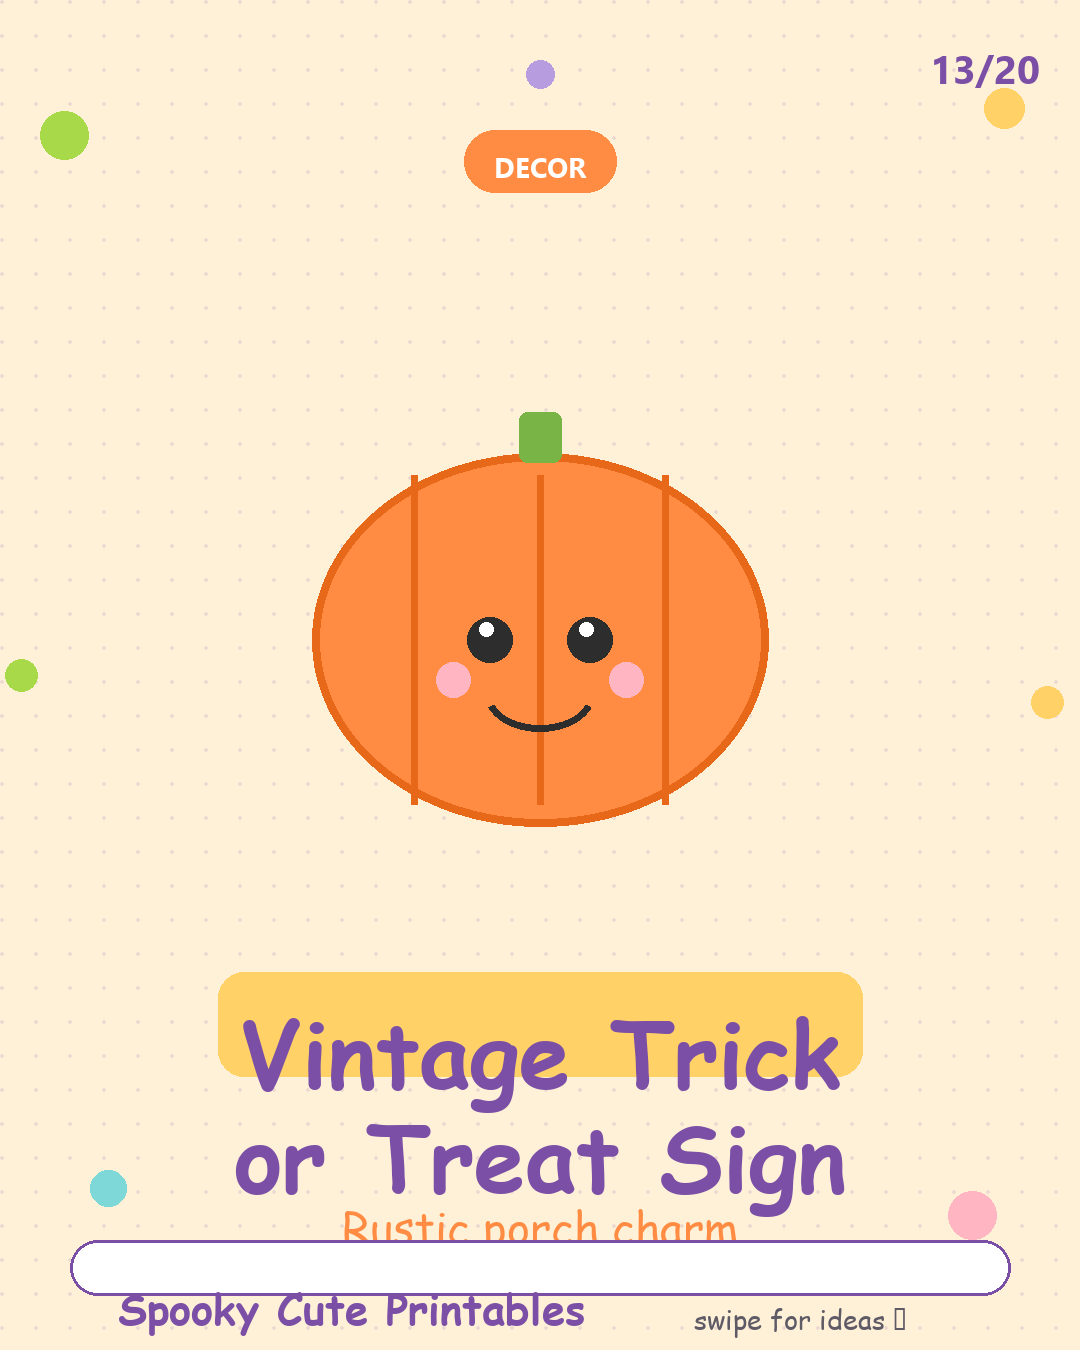
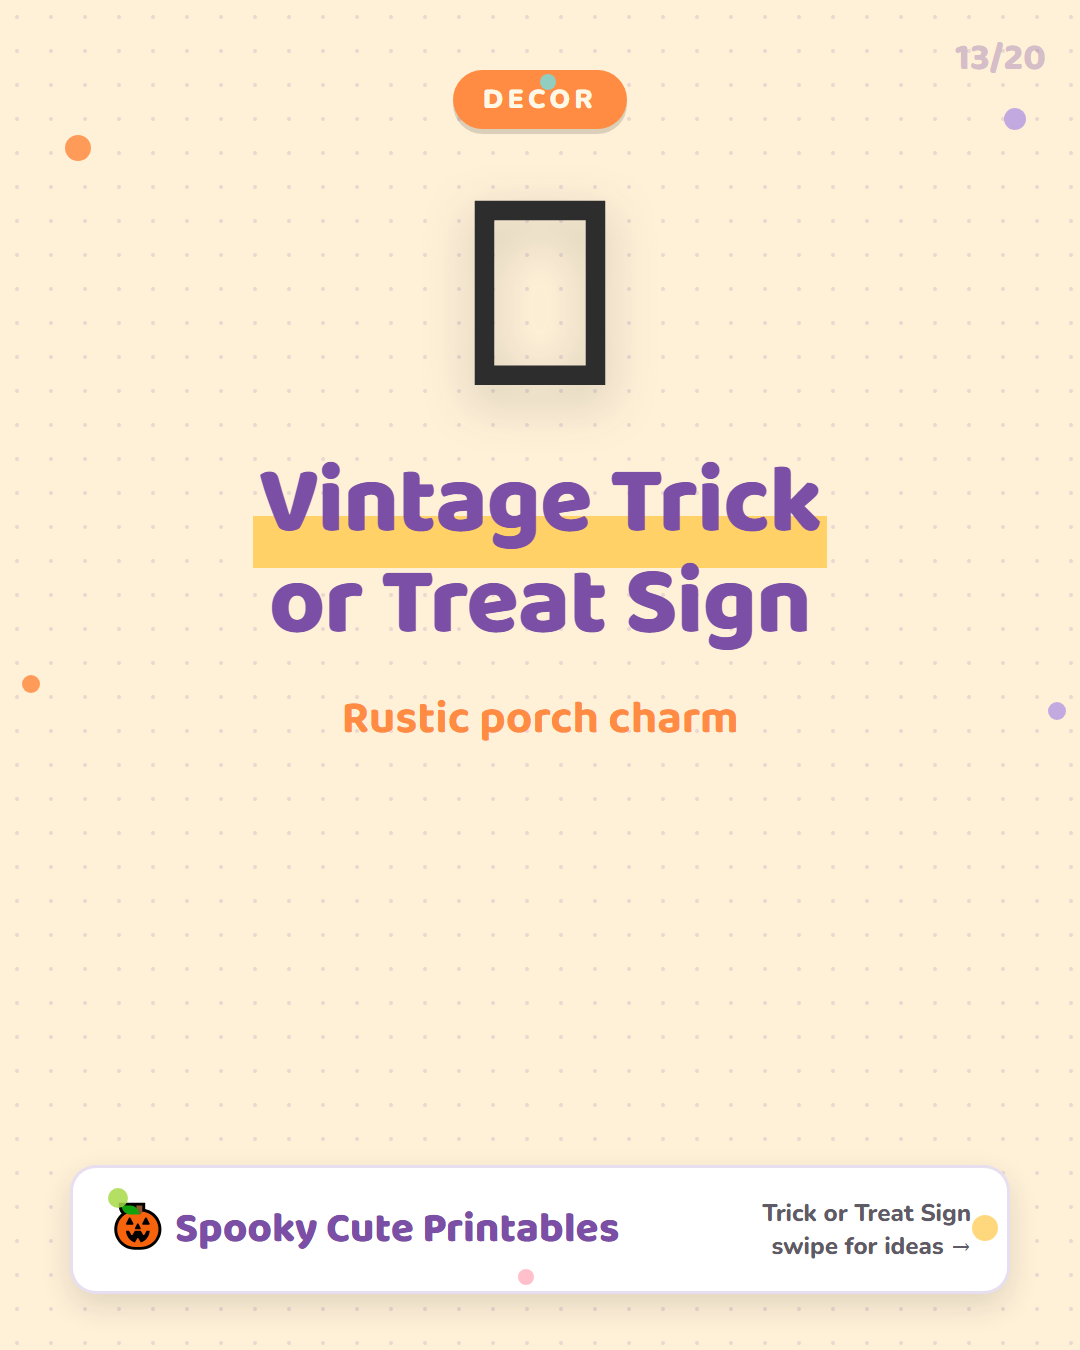
Re-render pin covers via Playwright/Chromium with Google Fonts and real emoji

diff --git a/pins/make_pins_html.py b/pins/make_pins_html.py
@@ -1,0 +1,112 @@
+# Renders 20 Pinterest pin covers (1080x1350) from HTML -> PNG via Playwright/Chromium.
+# Fonts: Google Fonts (Baloo 2 + Nunito). Style matches the Spooky Cute Printables landing page.
+import os
+from playwright.sync_api import sync_playwright
+
+HTML_DIR = r"C:\Users\aag75\AppData\Local\Temp\opencode\pins\html2"
+PNG_DIR = r"D:\проэкт\pins\covers"
+W, H = 1080, 1350
+os.makedirs(HTML_DIR, exist_ok=True)
+os.makedirs(PNG_DIR, exist_ok=True)
+
+ORANGE = "#FF8C42"; ORANGE_D = "#E8681A"; PURPLE = "#7B4FA6"; PURPLE_L = "#B79CE0"
+CREAM = "#FFF8E7"; INK = "#2D2D2D"; LIME = "#A8D948"; YELLOW = "#FFD166"
+TEAL = "#7FD8D8"; PINK = "#FFB5C2"
+
+# (kicker, line1, line2, emoji, bg, accent, badge, tagline)
+PINS = [
+ ("Pumpkin Porch Ideas",      "Cozy Pumpkin",      "Porch Vibes",        "🎃", "#FFF1D8", ORANGE,  "DECOR",     "Spooky-cute, not scary"),
+ ("Black Cat Aesthetic",      "Cute Black Cat",    "Wallpaper",          "🐱", "#332F42", PURPLE_L,"WALLPAPER", "Save it for your phone"),
+ ("Witch Hat Night",          "Witch Hat &",       "Full Moon Night",    "🧙♀","#EFE7FB", PURPLE,  "MAGIC",     "Purple moonlight vibes"),
+ ("Graveyard DIY",            "Friendly DIY",      "Graveyard Ideas",    "🪦", "#EAF6E9", "#5FA033","DIY",       "Crafts for the whole yard"),
+ ("Candy Corn Pattern",       "Candy Corn",        "Repeat Pattern",     "🍬", "#FFF8E7", ORANGE,  "PATTERN",   "Sweet & seamless"),
+ ("Costume Ideas",            "20+ Costume",       "Ideas for Adults",   "🎭", "#332F42", PURPLE_L,"COSTUMES",  "Spooky-cute looks"),
+ ("Haunted House",            "Haunted House",     "Silhouette Night",   "🏚", "#EFE7FB", PURPLE,  "WALLPAPER", "Cozy dark-mode vibes"),
+ ("Skeleton Hand Candy",      "Trick or Treat",    "Skeleton Hand",      "💀", "#FFF1D8", ORANGE,  "PARTY",     "Fun & a little silly"),
+ ("Pumpkin Spice Latte",      "Pumpkin Spice",     "Latte Aesthetic",    "☕", "#FFF8E7", "#C97B2D","COZY",      "Fall in a cup"),
+ ("Bat & Jack-O-Lantern",     "Bat Meets",         "Jack-O-Lantern",     "🦇", "#332F42", PURPLE_L,"CLASSIC",   "Best Halloween duo"),
+ ("Ghost Blowing Kisses",     "Ghost Blowing",     "Kisses — BOO!",      "👻", "#EFE7FB", PURPLE,  "CUTE",      "The sweetest little ghost"),
+ ("Spider Web Craft",         "Easy Spider",       "Web Craft",          "🕷", "#EAF6E9", "#5FA033","DIY",       "Simple & fun for kids"),
+ ("Trick or Treat Sign",      "Vintage Trick",     "or Treat Sign",      "🪧", "#FFF1D8", ORANGE,  "DECOR",     "Rustic porch charm"),
+ ("Vampire Teeth",            "Vampire Teeth",     "Close-Up",           "🧛", "#332F42", PURPLE_L,"SPOOKY",    "Classic fangs, cute style"),
+ ("Party Invitation",         "Halloween Party",   "Invitation",         "📨", "#EFE7FB", PURPLE,  "TEMPLATE",  "Printable & pretty"),
+ ("Witch Silhouette Moon",    "Witch Silhouette",  "& Big Moon",         "🌕", "#EAF6E9", "#5FA033","NIGHT",     "Moonlit magic"),
+ ("Candy Corn Family",        "Candy Corn",        "Family Craft",       "🍬", "#FFF8E7", ORANGE,  "KIDS",      "Googly-eye fun"),
+ ("DIY Porch Decor",          "DIY Porch",         "Makeover Guide",     "🏡", "#FFF1D8", ORANGE,  "DIY",       "Step by step ideas"),
+ ("Clown Makeup",             "Funny Clown",       "Makeup Idea",        "🤡", "#EFE7FB", PURPLE,  "TUTORIAL",  "Silly, not scary"),
+ ("Free Printables",          "50+ FREE",          "Halloween Printables","🎁", "#FFF8E7", ORANGE,  "FREEBIE",   "Coloring, tags & games"),
+]
+
+def pin_html(i, p):
+    kicker, l1, l2, emoji, bg, accent, badge, tagline = p
+    dark = bg == "#332F42"
+    title_c = "#FFF8E7" if dark else PURPLE
+    sub_c = "#E8DFC9" if dark else "#5E5A66"
+    card_bg = "#FFF8E7" if dark else "#FFFFFF"
+    dot_rgb = "255,248,231" if dark else "123,79,166"
+    n = f"{i+1:02d}"
+    dots = ""
+    palette = [ORANGE, PURPLE_L, LIME, YELLOW, TEAL, PINK]
+    spots = [(6,10,26),(93,8,22),(10,88,20),(90,90,26),(50,5.5,16),(48,94,16),(2,50,18),(97,52,18)]
+    for j,(fx,fy,ds) in enumerate(spots):
+        c = palette[(i+j) % len(palette)]
+        dots += (f'<div class="dot" style="left:{fx}%;top:{fy}%;width:{ds}px;height:{ds}px;background:{c}"></div>')
+    return f"""<!DOCTYPE html>
+<html lang="en"><head><meta charset="UTF-8">
+<title>Pin {n} — {kicker}</title>
+<link href="https://fonts.googleapis.com/css2?family=Baloo+2:wght@600;700;800&family=Nunito:wght@700;800;900&display=swap" rel="stylesheet">
+<style>
+*{{margin:0;padding:0;box-sizing:border-box}}
+html,body{{width:{W}px;height:{H}px;overflow:hidden}}
+body{{
+  font-family:'Nunito','Segoe UI',sans-serif;color:{"#FFF8E7" if dark else INK};
+  background:{bg};
+  background-image:radial-gradient(rgba({dot_rgb},.15) 2px,transparent 2.2px);
+  background-size:34px 34px;
+}}
+.pin{{position:relative;width:{W}px;height:{H}px;display:flex;flex-direction:column;align-items:center;padding:64px 70px 56px}}
+.dot{{position:absolute;border-radius:50%;opacity:.85}}
+.num{{position:absolute;right:34px;top:28px;font-family:'Baloo 2',cursive;font-weight:800;font-size:38px;color:rgba(123,79,166,.32)}}
+.badge{{
+  font-weight:900;font-size:26px;letter-spacing:.16em;color:#FFF8E7;background:{accent};
+  border-radius:999px;padding:12px 30px;box-shadow:0 5px 0 rgba(0,0,0,.14);margin-top:6px;
+}}
+.emoji{{font-size:270px;line-height:1.05;margin:26px 0 14px;filter:drop-shadow(0 16px 24px rgba(45,45,45,.25))}}
+.title{{font-family:'Baloo 2',cursive;font-weight:800;font-size:96px;line-height:1.06;color:{title_c};text-align:center;letter-spacing:-.01em}}
+.hl{{background:linear-gradient(180deg,transparent 58%,{YELLOW} 58%,{YELLOW} 92%,transparent 92%);padding:0 .06em;border-radius:8px}}
+.kicker{{font-family:'Baloo 2',cursive;font-weight:700;font-size:46px;color:{accent if not dark else PURPLE_L};margin-top:26px;text-align:center}}
+.card{{
+  margin-top:auto;width:100%;background:{card_bg};color:{INK};border-radius:26px;
+  padding:28px 36px;display:flex;align-items:center;justify-content:space-between;gap:20px;
+  box-shadow:0 12px 30px rgba(45,45,45,.14);border:3px solid rgba(123,79,166,.18);
+}}
+.brand{{font-family:'Baloo 2',cursive;font-weight:800;font-size:42px;color:{PURPLE}}}
+.tag{{font-weight:800;font-size:24px;color:{sub_c};text-align:right;line-height:1.35}}
+</style></head><body>
+<div class="pin">
+  {dots}
+  <div class="num">{n}/20</div>
+  <div class="badge">{badge}</div>
+  <div class="emoji">{emoji}</div>
+  <h1 class="title"><span class="hl">{l1}</span><br>{l2}</h1>
+  <div class="kicker">{tagline}</div>
+  <div class="card">
+    <div class="brand">🎃 Spooky Cute Printables</div>
+    <div class="tag">{kicker}<br>swipe for ideas →</div>
+  </div>
+</div></body></html>"""
+
+with sync_playwright() as pw:
+    browser = pw.chromium.launch(args=["--force-device-scale-factor=1"])
+    page = browser.new_page(viewport={"width": W, "height": H}, device_scale_factor=1)
+    for i, p in enumerate(PINS):
+        hp = os.path.join(HTML_DIR, f"pin-{i+1:02d}.html")
+        with open(hp, "w", encoding="utf-8") as f:
+            f.write(pin_html(i, p))
+        page.goto("file:///" + hp.replace("\\", "/"))
+        page.wait_for_timeout(700)  # let Google Fonts settle
+        png = os.path.join(PNG_DIR, f"pin-{i+1:02d}.png")
+        page.screenshot(path=png, clip={"x": 0, "y": 0, "width": W, "height": H})
+        print(f"pin-{i+1:02d}.png  {os.path.getsize(png)} bytes")
+    browser.close()
+print("DONE")
